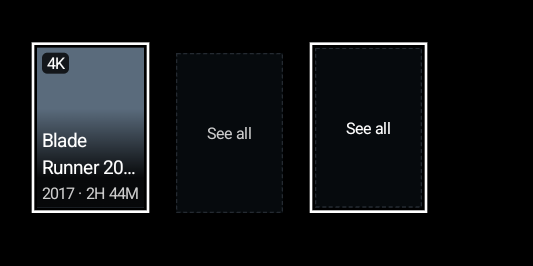
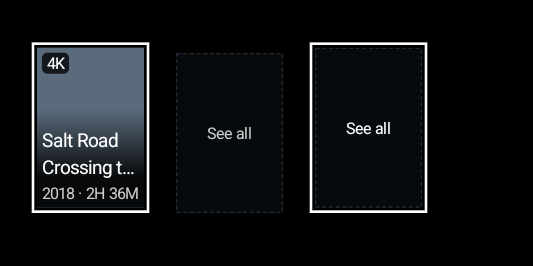
BUG-75: design-system device tests use made-up titles and sources
The card, side-panel and focus-stop device tests named a real film, a
real episode and real providers. They now use made-up ones. Two
screenshots are re-recorded; every diff was read. The panel's changes
only the names. The card's title is long enough to wrap and ellipsize,
as the old one did.

diff --git a/core/designsystem/src/androidDeviceTest/kotlin/com/lagradost/cloudstream4/core/designsystem/panel/SidePanelScreenshotDeviceTest.kt b/core/designsystem/src/androidDeviceTest/kotlin/com/lagradost/cloudstream4/core/designsystem/panel/SidePanelScreenshotDeviceTest.kt
@@ -35,7 +35,7 @@ import org.junit.runner.RunWith
  * the page, the panel on `surface` with its selected rows `raised`, and the header at the top. On Android TV the rail is a
  * separate view; `TvRailNavigationTest` measures that on the real shell.
  *
- * The rows are 4d's five providers in 4d's states: the first three selected and healthy, `Zoro` off and failed, the last
+ * The rows are 4d's five providers in 4d's states: the first three selected and healthy, `Source E` off and failed, the last
  * off and unchecked. Until `DS-15` the case had a selected row with a failed marker beside an unselected healthy one, a
  * pairing 4d never draws.
  */
@@ -101,11 +101,11 @@ class SidePanelScreenshotDeviceTest {
         const val WAIT_MS = 5_000L
         /** `TV Search` 4d's `pr`. A subtitle too long for the panel ellipsizes, as 4d's does. */
         val ROWS = listOf(
-            Source("Vidsrc", "EN · MOVIES, TV · PINNED", selected = true, StatusDotState.Ok),
-            Source("Gogoanime", "EN · ANIME", selected = true, StatusDotState.Ok),
-            Source("Filmxy", "EN · MOVIES", selected = true, StatusDotState.Ok),
-            Source("Zoro", "EN · ANIME · FAILED 2 MIN AGO", selected = false, StatusDotState.Failed),
-            Source("Dramacool", "KO · ASIAN DRAMA", selected = false, StatusDotState.Neutral),
+            Source("Source D", "EN · MOVIES, TV · PINNED", selected = true, StatusDotState.Ok),
+            Source("Source C", "EN · ANIME", selected = true, StatusDotState.Ok),
+            Source("Source B", "EN · MOVIES", selected = true, StatusDotState.Ok),
+            Source("Source E", "EN · ANIME · FAILED 2 MIN AGO", selected = false, StatusDotState.Failed),
+            Source("Source A", "KO · ASIAN DRAMA", selected = false, StatusDotState.Neutral),
         )
         val Items = listOf(
             NavRailItem("Home", CloudStreamIcons.Home),

diff --git a/core/designsystem/src/androidDeviceTest/kotlin/com/lagradost/cloudstream4/core/designsystem/FocusStopsDeviceTest.kt b/core/designsystem/src/androidDeviceTest/kotlin/com/lagradost/cloudstream4/core/designsystem/FocusStopsDeviceTest.kt
@@ -80,7 +80,7 @@ class FocusStopsDeviceTest {
                     ) {
                         GhostTextButton(label = ABOVE, onClick = { pressed += ABOVE })
                         ListRow(
-                            state = ListRowState(title = ROW, subtitle = "S5 E14 · 1.2 GB"),
+                            state = ListRowState(title = ROW, subtitle = "S3 E9 · 1.2 GB"),
                             onClick = { pressed += ROW },
                             modifier = Modifier.fillMaxWidth(),
                             actions = {
@@ -212,7 +212,7 @@ class FocusStopsDeviceTest {
         const val SETTLE_MS = 1_000L
         const val DOWN_ATTEMPTS = 6
         const val ABOVE = "Above"
-        const val ROW = "Ozymandias"
+        const val ROW = "Riptide"
         const val PLAY = "Play"
         const val DELETE = "Delete"
         const val DISABLED_ROW = "Your rating"

diff --git a/core/designsystem/src/androidDeviceTest/kotlin/com/lagradost/cloudstream4/core/designsystem/card/CardScreenshotDeviceTest.kt b/core/designsystem/src/androidDeviceTest/kotlin/com/lagradost/cloudstream4/core/designsystem/card/CardScreenshotDeviceTest.kt
@@ -51,7 +51,7 @@ class CardScreenshotDeviceTest {
                     Row(horizontalArrangement = Arrangement.spacedBy(CloudStreamDimens.ChipRowSpacing)) {
                         PosterCard(
                             rung = PosterRung.Medium,
-                            state = MediaCardState(focused = true, title = "Blade Runner 2049", meta = "2017 · 2H 44M"),
+                            state = MediaCardState(focused = true, title = "Salt Road Crossing the Bay", meta = "2018 · 2H 36M"),
                             slots = MediaCardSlots(leadingBadge = { Badge(text = "4K") }),
                         ) { Box(Modifier.fillMaxSize().background(ART)) }
                         SeeAllCard(size = CloudStreamCardSizes.PortraitMedium, label = "See all", focused = false)
